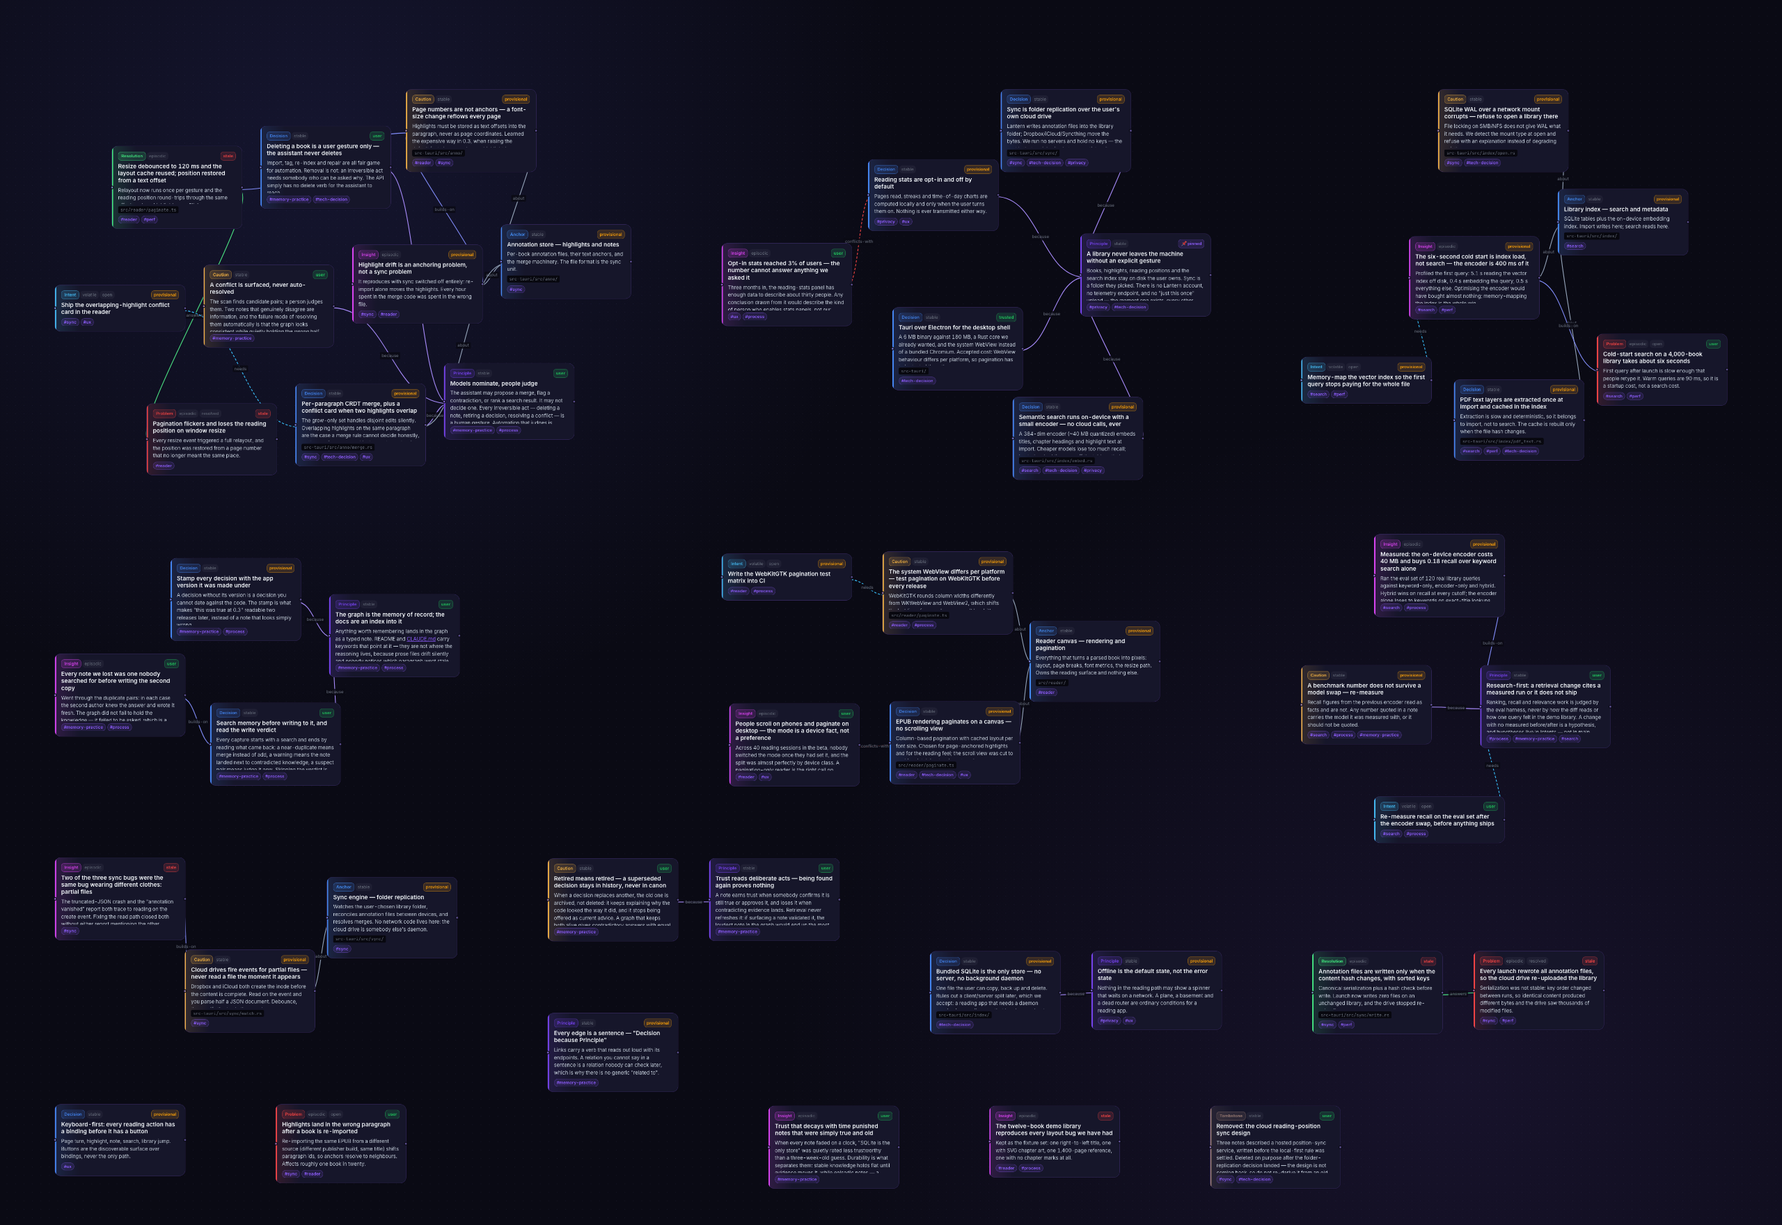
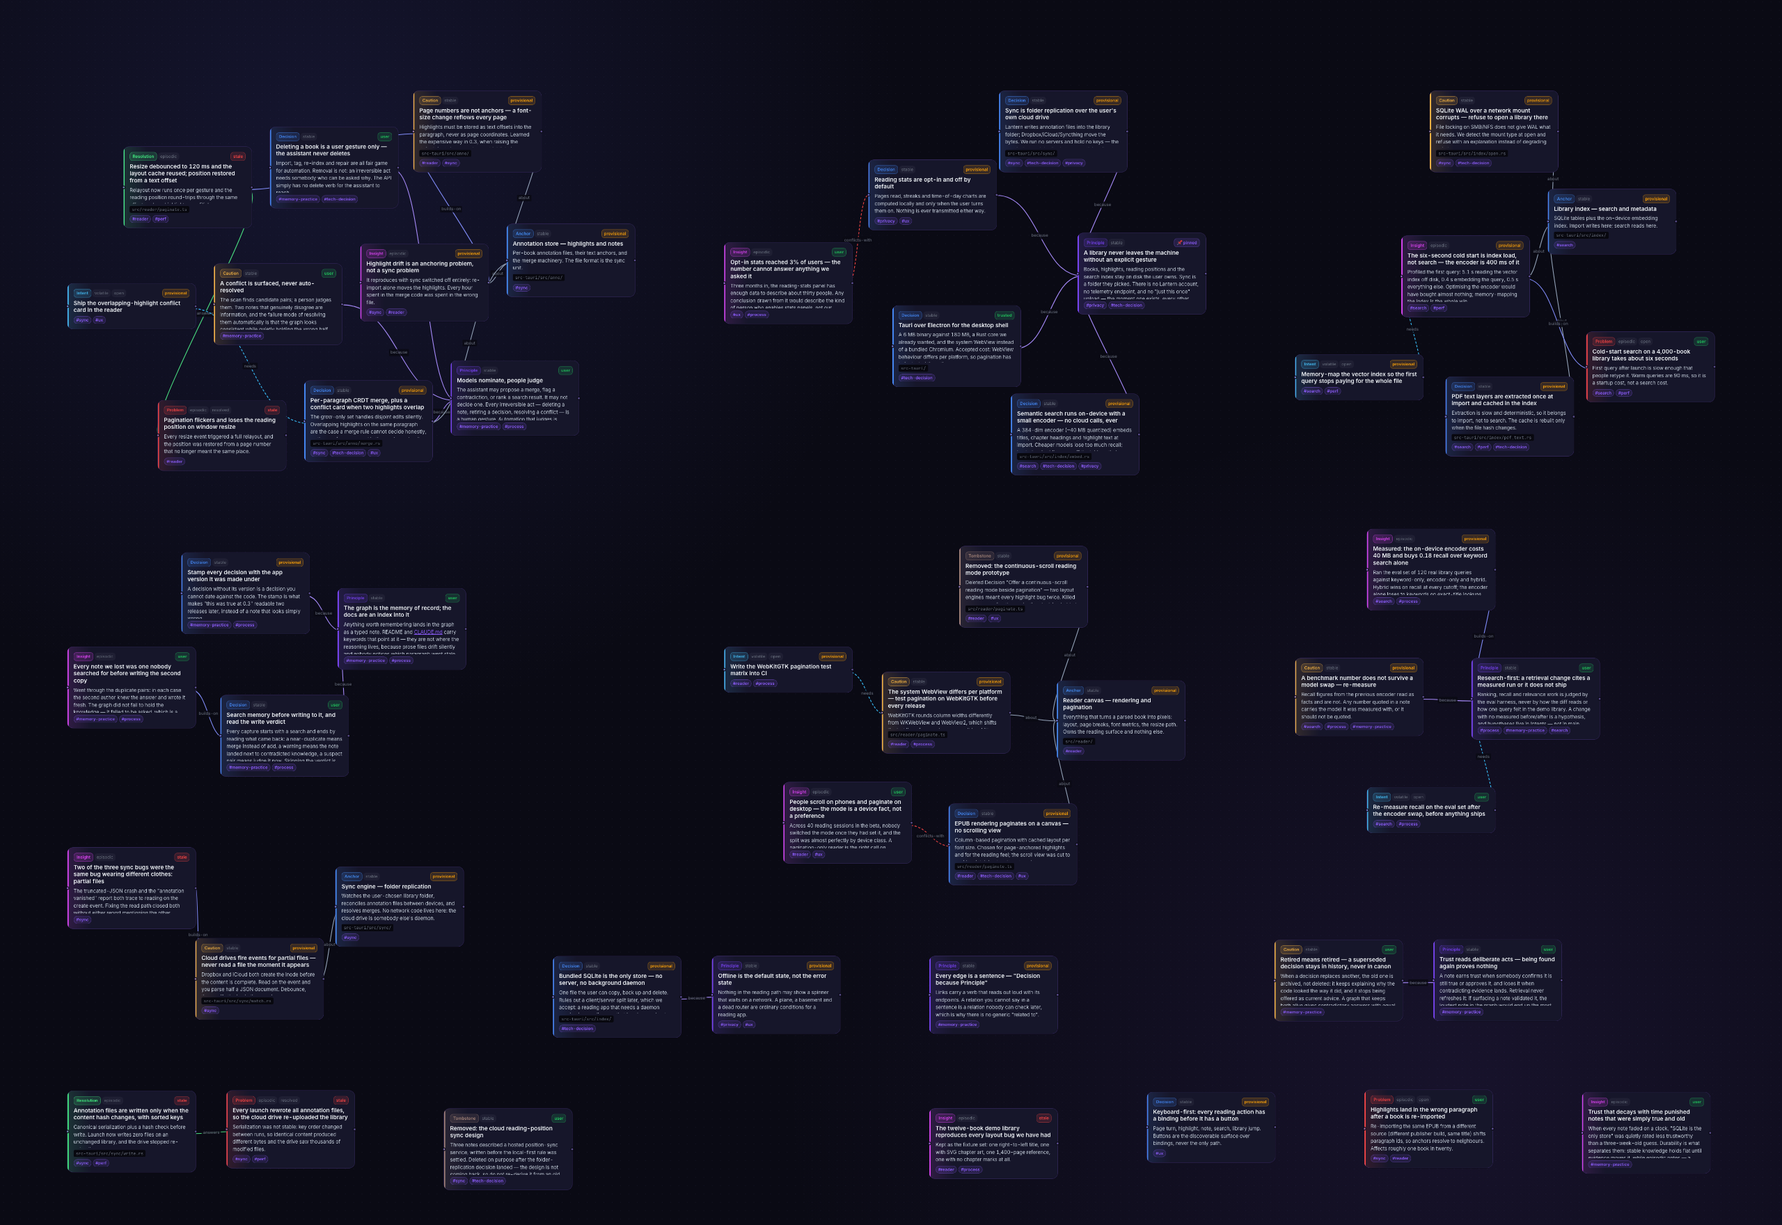
docs(shots,demo,vscode): regenerate screenshots for 0.9.2; demo mints tombstones; VS Code README for the Marketplace
- Screenshots regenerated from the demo (pane changed shape: delete confirm,
  claim check's retracted group, System at 0.9.2); one new shot of the delete
  confirm with its Tombstone options, embedded in docs/pane.md.
- Demo: deleteNode mirrors the daemon (tombstone + reason + keepText, about
  edges rehomed); a second seed Tombstone (the buried scroll-mode prototype,
  about the reader anchor) that the canned claim check files under
  retracted; System fixture and process census say 0.9.2.
- VS Code: README rewritten as the Marketplace page — what Engram is, why a
  graph, what the extension adds, four-step setup incl. Windows, memory
  model, docs link. The Configure MCP command wrote `--db .engram/graph.db`
  (dead since the tepin cutover); it now writes the db-less ["mcp"] entry
  setup writes. package.json description gains the current agent roster.

diff --git a/frontend/demo/engine.ts b/frontend/demo/engine.ts
@@ -538,10 +538,48 @@ export function patchNode(id: string, patch: Record<string, unknown>, project = 
     return put(next, project)
 }
 
-export function deleteNode(id: string, project = active): void {
+/**
+ * Hard delete, mirroring the daemon's `DELETE /nodes/{id}`: with
+ * `tombstone` the ontology's tombstone-role type mints a marker first —
+ * the victim's identity and the reason, plus (by default) the removed
+ * text, tags and code refs so a rewrite of the buried content lands on it
+ * (0.9.2) — and the victim's `about` edges move onto it. Then the cascade.
+ */
+export function deleteNode(
+    id: string,
+    opts?: { tombstone?: boolean; reason?: string; keepText?: boolean },
+    project = active,
+): void {
     const p = state(project)
     const prev = p.nodes.get(id)
     if (!prev) return
+    const tsType = p.config.ontology.types.find((t) => t.roles.tombstone)
+    if (opts?.tombstone && tsType) {
+        const keep = opts.keepText !== false
+        let body = `Deleted ${prev.type} "${prev.title}" (id ${prev.id}).`
+        if (opts.reason?.trim()) body += `\n\n**Why:** ${opts.reason.trim()}`
+        if (keep && prev.body?.trim()) body += `\n\n**Removed text:** ${prev.body.trim()}`
+        const marker = createNode(
+            {
+                type: tsType.name,
+                title: `Removed: ${prev.title}`,
+                body,
+                durability: tsType.durability,
+                source: 'user',
+                tags: keep ? [...prev.tags] : [],
+                code_refs: keep ? [...prev.code_refs] : [],
+            },
+            project,
+        )
+        const anchors = new Set(p.config.ontology.types.filter((t) => t.roles.anchor).map((t) => t.name))
+        for (const e of p.edges.values()) {
+            if (e.from_id !== id || e.valid_until != null) continue
+            const target = p.nodes.get(e.to_id)
+            if (!target || !anchors.has(target.type)) continue
+            e.from_id = marker.id
+            emit('edge_updated', e, project)
+        }
+    }
     p.nodes.delete(id)
     for (const [eid, e] of [...p.edges]) {
         if (e.from_id === id || e.to_id === id) p.edges.delete(eid)

diff --git a/frontend/demo/data/lantern.ts b/frontend/demo/data/lantern.ts
@@ -730,6 +730,23 @@ export const LANTERN_NODES: SeedNode[] = [
         tags: ['sync', 'tech-decision'],
         version: '0.5.0',
     },
+    // The other way a tombstone comes to exist: the assistant buried a
+    // prototype that turned out wrong, behind a `replaces` edge. A later
+    // note that re-derives continuous scrolling draws the `tombstoned`
+    // warning; the claim check files it under "retracted".
+    {
+        key: 't-scroll-mode',
+        type: 'Tombstone',
+        title: 'Removed: the continuous-scroll reading mode prototype',
+        body: 'Deleted Decision "Offer a continuous-scroll reading mode beside pagination" — two layout engines meant every highlight bug twice. Killed on purpose after the pagination decision held; do not re-derive a scroll view from the old branch.\n\n**Removed text:** A scrolling view for long-form reading, sharing the paginator\'s measurement pass but laying columns out vertically.',
+        durability: 'stable',
+        source: 'claude',
+        days: 40,
+        session: 'mcp-00b6tbeta40r',
+        tags: ['reader', 'ux'],
+        code_refs: ['src/reader/paginate.ts'],
+        version: '0.5.0',
+    },
 ]
 
 export const LANTERN_EDGES: SeedEdge[] = [
@@ -755,6 +772,7 @@ export const LANTERN_EDGES: SeedEdge[] = [
     { type: 'about', from: 'i-cold-start-is-index', to: 'a-index', source: 'claude', days: 26 },
     { type: 'about', from: 'i-anchoring-not-sync', to: 'a-anno', source: 'claude', days: 26 },
     { type: 'about', from: 'd-paginate', to: 'a-reader', source: 'claude', days: 170 },
+    { type: 'about', from: 't-scroll-mode', to: 'a-reader', source: 'claude', days: 40 },
     { type: 'about', from: 'd-anno-crdt-cards', to: 'a-anno', source: 'claude', days: 26 },
     { type: 'about', from: 'd-pdf-text', to: 'a-index', source: 'claude', days: 26 },
 

diff --git a/frontend/demo/api.ts b/frontend/demo/api.ts
@@ -127,7 +127,7 @@ export const api: EngramApi = {
 
     patchNode: (id, patch) => ok(engine.patchNode(id, patch)),
     patchEdge: (id, patch) => ok(engine.patchEdge(id, patch)),
-    deleteNode: (id) => ok(engine.deleteNode(id)),
+    deleteNode: (id, opts) => ok(engine.deleteNode(id, opts)),
 
     suspects: () => ok(engine.state().suspects),
     scanConflicts: () => ok({ added: engine.scanSuspects() }),
@@ -174,7 +174,7 @@ export const api: EngramApi = {
     system: () => {
         const p = engine.state(LAUNCH)
         const info: SystemInfo = {
-            version: '0.9.0',
+            version: '0.9.2',
             daemon: { pid: 4821, uptime_secs: 7326, repo_root: '/Users/you/code/lantern' },
             store: {
                 db: '/Users/you/code/lantern/.engram/graph.tepin',
@@ -217,12 +217,12 @@ export const api: EngramApi = {
                 { agent: 'codex', wired: true, prerename: false },
                 { agent: 'gemini', wired: false, prerename: false },
             ],
-            // The 0.9.0 process census — the core plus two light MCP bridges,
+            // The 0.9.2 process census — the core plus two light MCP bridges,
             // so the demo shows the Processes section populated.
             processes: {
                 core: {
                     pid: 4821,
-                    version: '0.9.0',
+                    version: '0.9.2',
                     started_at: Math.floor(Date.now() / 1000) - 7326,
                     home: '/Users/you/.engram',
                 },

diff --git a/engram-vscode/src/mcp.ts b/engram-vscode/src/mcp.ts
@@ -7,8 +7,10 @@ interface McpConfig {
 
 /**
  * Merge an `engram` server into the workspace `.mcp.json` (the file Claude Code
- * reads), without clobbering other servers. Uses a relative db path so it
- * resolves against the repo the daemon also uses.
+ * reads), without clobbering other servers. The entry is db-less, the same
+ * shape `engram-alpha setup` writes: Claude Code launches the server with the
+ * project as cwd and answers MCP roots, so the bridge binds the project's
+ * graph (`.engram/graph.tepin`) itself and the entry is portable.
  */
 export async function configureMcp(): Promise<void> {
     const folder = vscode.workspace.workspaceFolders?.[0]
@@ -31,7 +33,7 @@ export async function configureMcp(): Promise<void> {
 
     ;(config.mcpServers as Record<string, unknown>).engram = {
         command: 'engram-alpha',
-        args: ['mcp', '--db', '.engram/graph.db'],
+        args: ['mcp'],
     }
 
     const body = JSON.stringify(config, null, 2) + '\n'

diff --git a/frontend/demo/data/canned.ts b/frontend/demo/data/canned.ts
@@ -119,6 +119,21 @@ export function claimReport(claim: string): ClaimReport {
                 contradiction: 0.85,
             },
         ],
+        // Sorted out by role before the model runs: a Tombstone says the
+        // scroll view was deliberately removed. The retrieval score rides
+        // in `entailment`; the NLI columns are zero because none ran.
+        retracted: [
+            {
+                id: synthId('t-scroll-mode'),
+                type: 'Tombstone',
+                title: 'Removed: the continuous-scroll reading mode prototype',
+                trust: 0.6,
+                stale: false,
+                entailment: 0.74,
+                neutral: 0,
+                contradiction: 0,
+            },
+        ],
         silent: [
             {
                 id: synthId('c-webview'),

diff --git a/engram-vscode/README.md b/engram-vscode/README.md
@@ -1,4 +1,4 @@
-# Engram — VS Code extension
+# Engram Alpha — VS Code extension
 
 [![Build](https://github.com/techtheist/engram/actions/workflows/vscode.yml/badge.svg)](https://github.com/techtheist/engram/actions/workflows/vscode.yml)
 [![VS Marketplace](https://vsmarketplacebadges.dev/version/techtheist.engram-alpha.svg?label=VS%20Marketplace)](https://marketplace.visualstudio.com/items?itemName=techtheist.engram-alpha)
@@ -6,61 +6,143 @@
 [![Open VSX](https://img.shields.io/open-vsx/v/techtheist/engram-alpha?label=Open%20VSX)](https://open-vsx.org/extension/techtheist/engram-alpha)
 [![Downloads](https://img.shields.io/open-vsx/dt/techtheist/engram-alpha)](https://open-vsx.org/extension/techtheist/engram-alpha)
 
-Embeds the [Engram](https://github.com/techtheist/engram) graph pane in VS Code.
-Engram is a durable, graph-based long-term memory for AI coding assistants — the
-*reasoning/decision* layer (why we chose this, what bit us, what's still open),
-shown as a graph you can see, edit, and own.
+> The most powerful and feature-rich inspectable long-term graph memory for
+> software development with AI agents — built on reproducible research.
 
-The extension hosts the Engram pane (the Vue app, **bundled into the extension**)
-in a Webview and talks to the local **`engram-alpha serve`** daemon — the same daemon
-your AI assistant reads from and writes to over MCP. Decisions, cautions,
-problems, and insights surface and update live as you work.
+[Engram](https://github.com/techtheist/engram) is a durable, graph-based
+long-term memory for AI coding assistants: the **reasoning and decision
+layer** — why we chose this, what bit us, what's still open — kept as a graph
+you can see, edit, and own. Local-first, no cloud, no keys: your memory is a
+file inside your repo, and every model that reads it runs on your machine.
 
-One memory, every agent: the backend speaks MCP, so **Claude Code, Codex (CLI and desktop app),
-Gemini CLI, OpenCode, Kilo, Google Antigravity, Bob, Windsurf, and Devin CLI** all share the same per-repo graph (wire them
-with `engram-alpha setup --cli …`) — a decision captured by one assistant is recalled
-by the next.
+This extension embeds the Engram pane in VS Code and talks to the local
+`engram-alpha` core — the same process your assistants read from and write
+to over MCP. Decisions, cautions, problems, and insights surface and update
+live while you work.
 
-<!-- Absolute URL on purpose: this README is also the Marketplace listing,
+<!-- Absolute URLs on purpose: this README is also the Marketplace listing,
      where repo-relative paths outside the extension folder don't resolve. -->
 ![Engram pane in VS Code's secondary sidebar: the memory graph updates live while the assistant works](https://raw.githubusercontent.com/techtheist/engram/main/.screenshots/engram-alpha-vscode.png)
 
-## Requirements
+**[Try the live demo →](https://techtheist.github.io/engram/demo/)** — the
+real pane in your browser over an invented project's memory. Nothing to
+install.
 
-- **The Engram backend.** From your project's root:
+## Why a graph, not a notes file
 
-  ```sh
-  curl -fsSL https://raw.githubusercontent.com/techtheist/engram/main/install.sh | sh
-  ```
+A flat memory file is whole below about forty notes and overtaken by
+retrieval after that. Engram's graph is *active*: superseded knowledge is
+archived behind a `replaces` edge instead of silently contradicting the new
+canon, look-alike claims get flagged and judged, contradictions become
+visible `conflicts-with` edges, deliberately removed knowledge leaves a
+Tombstone so nobody re-learns it, and trust fades on scratch that never gets
+re-confirmed while pinned decisions never fade at all. The payoff shows up
+the second time something goes wrong: the graph already holds the
+**Problem**, the **Resolution** that answered it, and the **Caution** that
+would have prevented it.
 
-  This installs the `engram-alpha` binary (checksum-verified, into `~/.local/bin`)
-  and nothing else; `engram-alpha setup` from the project root writes the
-  workspace `.mcp.json` for Claude Code and installs the capture skill. On Windows, run the same command inside WSL2 — it installs the native
-  `engram-alpha.exe`. The pane and status bar connect to the daemon at
-  `http://127.0.0.1:8787` (configurable via `engram.daemonUrl`).
+- **One memory, every agent.** The core speaks MCP, so **Claude Code, Codex
+  (CLI and desktop app), Gemini CLI, OpenCode, Kilo, Google Antigravity, Bob
+  (IDE and Shell), Windsurf, and Devin CLI** share the same per-repo graph.
+  A decision captured by one assistant is recalled by the next.
+- **An assistant that starts briefed.** A session-start digest of conflicts
+  to judge, open work, and standing decisions; mid-session hybrid search
+  where every hit carries its conflicts and supersessions first, and every
+  reply says how confident it is.
+- **Silent capture, accountable review.** Writes are quiet, and every one
+  comes back checked: duplicates merge instead of piling up, writes near
+  superseded, conflicted, or tombstoned knowledge are warned. The Review
+  drawer is where you approve what you vouch for.
+- **A memory that argues back.** A local NLI model checks claims against
+  your canon with receipts and sweeps the graph for hidden conflicts and
+  duplicates. Models nominate; you judge.
+- **Measured, not promised.** Retrieval defaults are outputs of a published
+  offline benchmark — about 9× the recall per token of a conventional
+  vector stack at 1,500 notes. The runs live next to the code.
 
-## Use
+## What the extension gives you
 
-1. Run `engram-alpha serve` in your project.
-2. Open the **Engram** view from the activity bar (graph icon), or run
-   **Engram: Open Graph in Editor** for a center-tab view.
-3. The **status bar** shows daemon connectivity; if the daemon is down the pane
-   shows a Retry overlay and reconnects on its own once it's up.
+- **The Engram view** in the activity bar (graph icon) — the full pane: the
+  live graph in three layouts, the timeline feed, tags and filters, the
+  Review drawer, Checkup, settings. Everything the standalone pane does.
+- **Engram: Open Graph in Editor** for a center-tab view when the sidebar is
+  too narrow.
+- **A status bar item** showing core connectivity. If the core is down the
+  pane shows a Retry overlay and reconnects on its own once it is up.
+- **Detect-and-guide setup.** On activation the extension checks for the
+  `engram-alpha` binary and a running core and offers the next step —
+  **Install Backend**, **Start Daemon**, or **Configure MCP** — without
+  spawning anything behind your back.
 
-### MCP for Claude Code
+## Setup
 
-`engram-alpha setup` writes `.mcp.json`. If you haven't run it (or installed
-the binary another way), run **Engram: Configure MCP for Claude Code**
-to add an `engram` server to the workspace `.mcp.json` (it merges, never
-clobbers other servers):
+1. **Install the backend** (the extension can run this for you via
+   *Engram: Install Backend*). From your project's root:
+
+   ```sh
+   curl -fsSL https://raw.githubusercontent.com/techtheist/engram/main/install.sh | sh
+   ```
+
+   This installs the `engram-alpha` binary, checksum-verified, into
+   `~/.local/bin` — and nothing else. On Windows, use PowerShell:
+
+   ```powershell
+   powershell -ExecutionPolicy Bypass -c "irm https://raw.githubusercontent.com/techtheist/engram/main/install.ps1 | iex"
+   ```
+
+   (Assistants living in WSL2 should run the `install.sh` line inside WSL
+   instead, so the core and the agents share one filesystem.)
+
+2. **Wire your assistants**, still from the project root:
+
+   ```sh
+   engram-alpha setup
+   ```
+
+   It auto-detects what is installed and writes each agent's MCP config plus
+   the capture skill. `engram-alpha setup --cli claude,codex` wires only the
+   ones you name.
+
+3. **Start the core**: `engram-alpha serve` (or *Engram: Start Daemon*). The
+   first run downloads the three local models — embeddings, reranker, NLI —
+   into `~/.cache/engram`. After that it is fully offline.
+
+4. Open the **Engram** view. The pane finds the core through the
+   workspace's `.engram/daemon.json`; `engram.daemonUrl` is the fallback
+   when that file is absent (default `http://127.0.0.1:8787`).
+
+### Configure MCP for Claude Code
+
+`engram-alpha setup` already writes the workspace `.mcp.json`. If you
+installed the binary another way, **Engram: Configure MCP for Claude Code**
+merges an `engram` server into `.mcp.json` without touching other servers:
 
 ```json
-{ "mcpServers": { "engram": { "command": "engram-alpha", "args": ["mcp", "--db", ".engram/graph.db"] } } }
+{ "mcpServers": { "engram": { "command": "engram-alpha", "args": ["mcp"] } } }
 ```
 
-Restart Claude Code to pick it up. Requires the `engram-alpha` binary on your PATH.
+No database path is needed: Claude Code launches the server with the
+project as its working directory and answers MCP roots, so the light stdio
+bridge binds the project's graph (`.engram/graph.tepin`) on its own and the
+entry is portable across checkouts. Restart Claude Code to pick it up.
+`engram-alpha doctor` checks the whole chain if something looks off.
 
-## Build
+## The memory model
+
+Nine node types — Principle, Decision, Caution, Problem, Resolution,
+Insight, Intent, Anchor, Tombstone — and seven edge verbs that read as
+sentences: a Decision **because** a Principle, a Resolution **answers** a
+Problem, the newer **replaces** the older, two claims **conflict-with** each
+other. Three capture intensities (`relaxed` / `normal` / `aggressive`) set
+how much your assistant writes. The ontology, the trust numbers, and the
+brief are per-graph configuration you can reshape from the pane, custom
+fields included.
+
+Full documentation: [docs](https://github.com/techtheist/engram/tree/main/docs)
+— getting started, the pane, the memory model, trust, conflicts and
+Checkup, multi-project memory, storage, local models, troubleshooting.
+
+## Build from source
 
 The pane is the repo's `frontend/` build, copied in at package time.
 
@@ -73,8 +155,6 @@ npm run package      # -> engram-<version>.vsix
 
 Install the `.vsix` via *Extensions view → ⋯ → Install from VSIX…*.
 
-## Scope (first pass)
+## License
 
-Pane + MCP config + daemon **detect-and-guide** (no spawning — matches the
-JetBrains plugin). Auto-starting the daemon and bundling the capture skill are
-follow-ups.
+MIT — see the [repository](https://github.com/techtheist/engram).

diff --git a/CHANGELOG.md b/CHANGELOG.md
@@ -47,6 +47,23 @@ body of its GitHub Release (draft-release.yml lifts it automatically).
   Docs corrected where they implied the delete mint links its victim (it
   cannot — the victim is gone; the identity lives in the body).
 
+### Demo, screenshots, marketplace
+
+- **The demo caught up.** Its delete mints a Tombstone the way the daemon
+  does (reason, kept text, `about` edges rehomed), the seed gains a second
+  Tombstone — a scroll-mode prototype the assistant buried — that the
+  canned claim check files under *retracted*, and the System panel reports
+  0.9.2.
+- **Screenshots regenerated** from the demo, plus a new one of the delete
+  confirm with its Tombstone options (17 automated shots now).
+- **VS Code README rewritten for the Marketplace listing**: what Engram is
+  and why a graph, what the extension adds, a four-step setup including
+  Windows, and the MCP snippet corrected — the extension's *Configure MCP*
+  command wrote `--db .engram/graph.db`, a path that has not existed since
+  the TepinDB cutover; it now writes the same db-less `["mcp"]` entry
+  `engram-alpha setup` does, and the bridge binds the project's
+  `graph.tepin` itself.
+
 ## v0.9.1
 
 ### The pane stops looking foreign

diff --git a/docs/pane.md b/docs/pane.md
@@ -134,6 +134,8 @@ every one of them editable in place.
   onto the Tombstone, so the removal stays attached to the code subject it
   happened under.
 
+  <img src="../.screenshots/engram-alpha-delete-tombstone-feature.png" width="290" alt="The delete confirm at the foot of the detail drawer: Leave a Tombstone ticked, a reason typed in, Keep the removed text ticked, and the Confirm delete button">
+
 ## The Review drawer
 
 Capture is silent; Review is where it becomes accountable.
